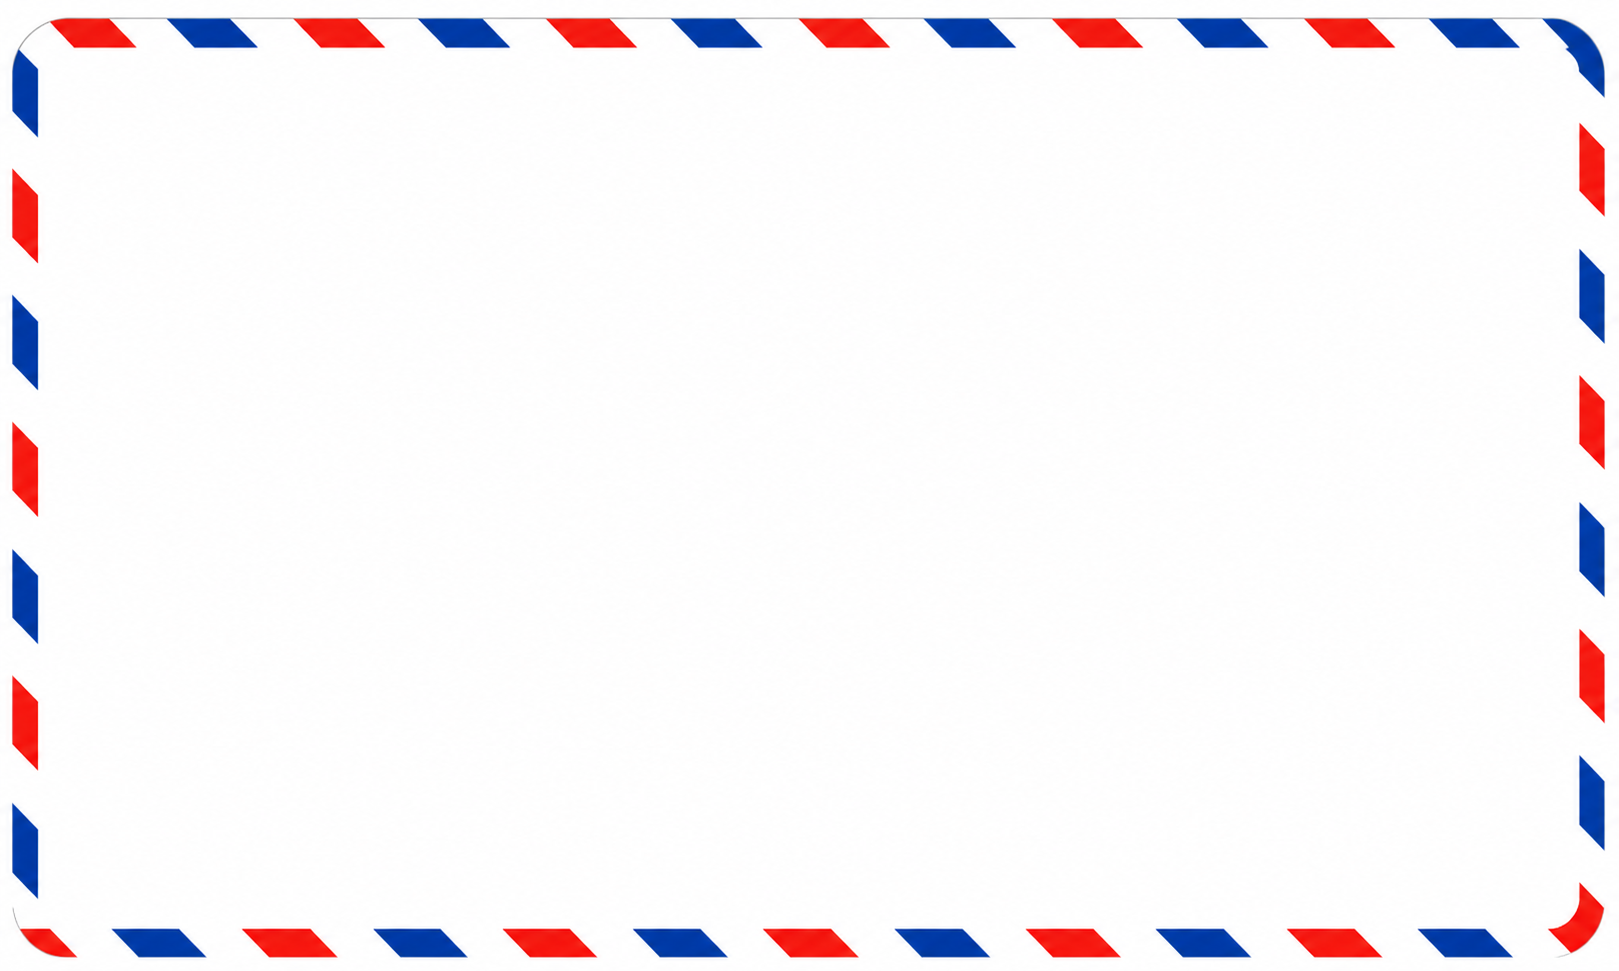
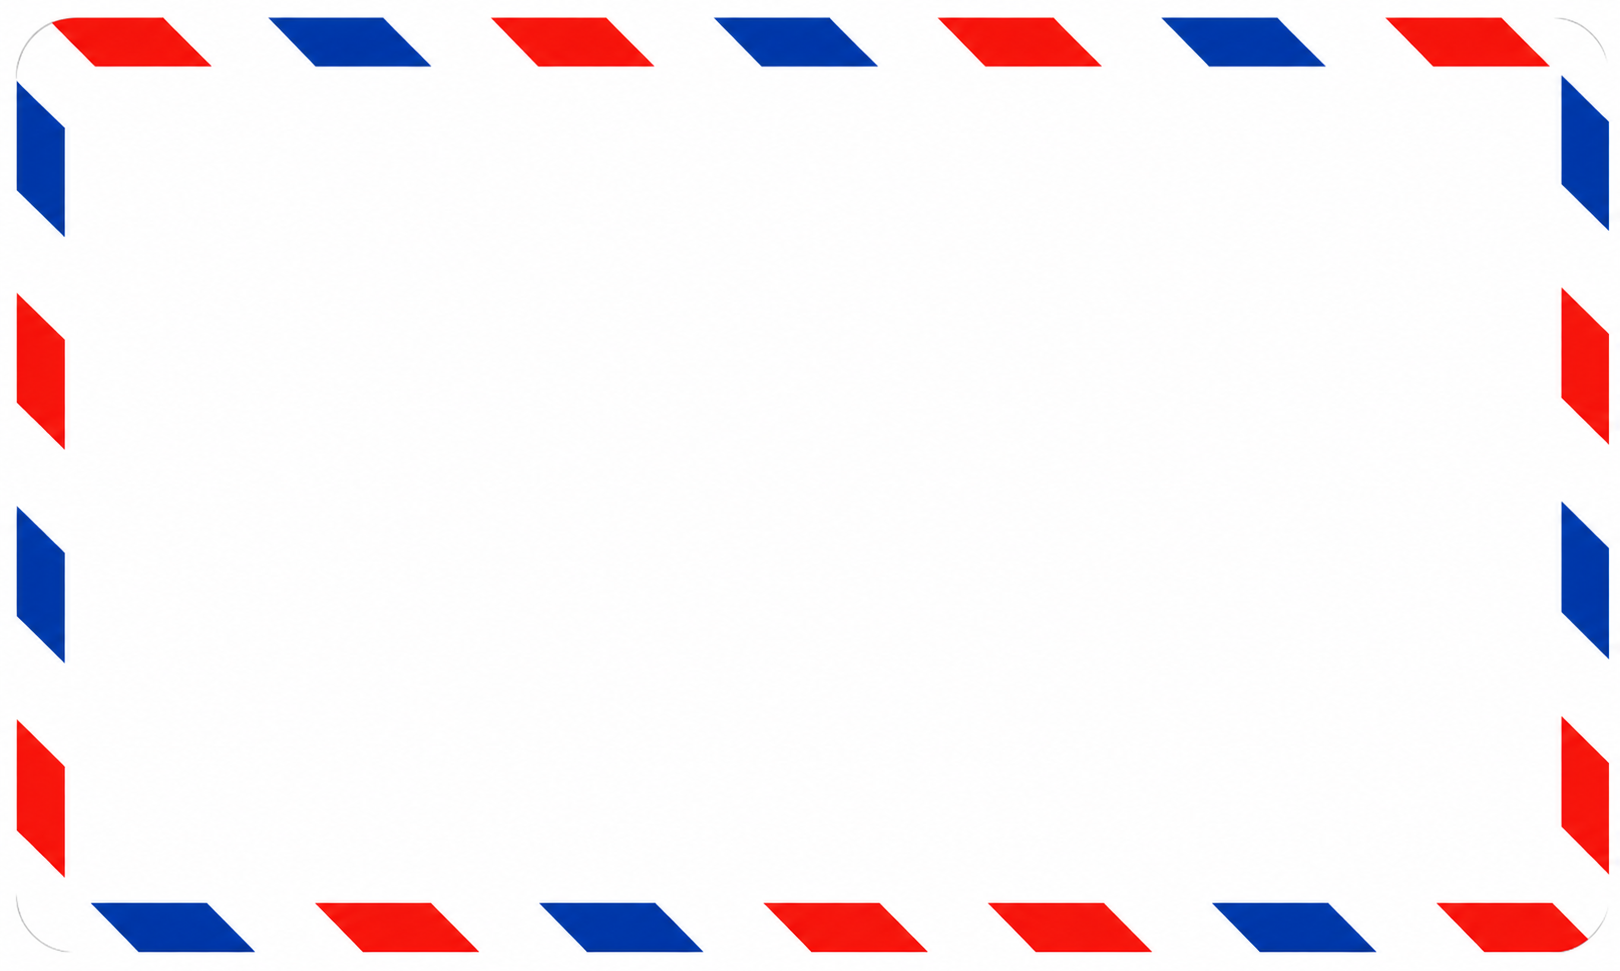
Modified: font bigger

diff --git a/style.css b/style.css
@@ -147,7 +147,7 @@ button:hover{
 
     position:absolute;
 
-    top:6mm;
+    top:7mm;
 
     left:0;
 
@@ -155,7 +155,7 @@ button:hover{
 
     text-align:center;
 
-    font-size:21px;
+    font-size:40px;
 
     font-weight:bold;
 
@@ -177,7 +177,7 @@ button:hover{
 
     position:absolute;
 
-    top:16mm;
+    top:19mm;
 
     left:0;
 
@@ -185,9 +185,9 @@ button:hover{
 
     text-align:center;
 
-    font-size:30px;
+    font-size:40px;
 
-    font-weight:900;
+    font-weight:700;
 
     letter-spacing:2px;
 
@@ -207,7 +207,7 @@ button:hover{
     left:12mm;
     right:12mm;
 
-    top: 35mm;
+    top: 33mm;
 
     height:1.5px;
 
@@ -223,7 +223,7 @@ button:hover{
 
     position:absolute;
 
-    top:36.5mm;
+    top:31.5mm;
 
     left:0;
 
@@ -231,7 +231,7 @@ button:hover{
 
     text-align:center;
 
-    font-size:32px;
+    font-size:40px;
 
     font-weight:bold;
 
@@ -242,4 +242,8 @@ button:hover{
     white-space:nowrap;
     
     overflow:hidden;
+
+    letter-spacing: 15px;
+    
+    transform: translateX(2mm);
 }
